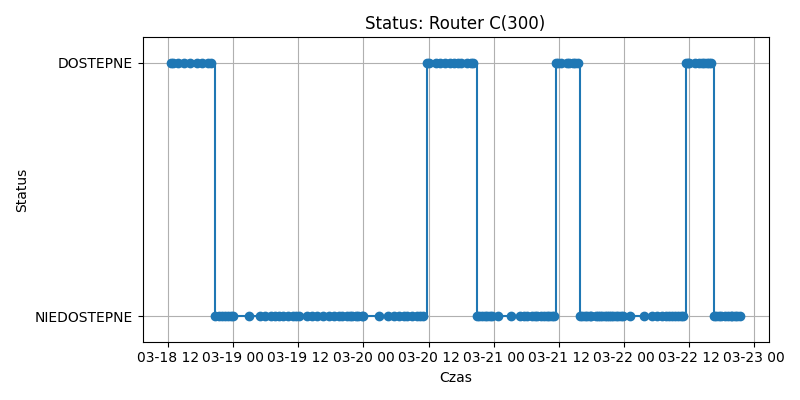
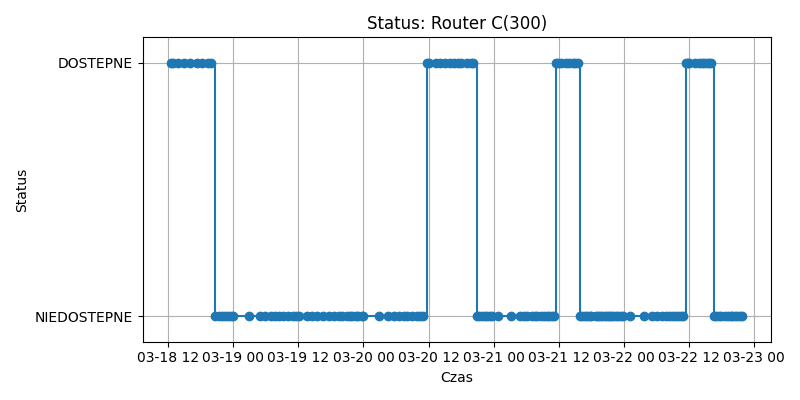
Automatyczna aktualizacja monitoringu

Changed region(s): [[0.4375, 0.03, 0.6875, 0.09], [0.5312, 0.93, 0.5938, 0.96], [0.9062, 0.78, 0.9375, 0.81]]

diff --git a/index.html b/index.html
@@ -33,5 +33,5 @@ img { border: 1px solid #ccc; border-radius: 8px; }
                 <div>Router C(300)</div>
                 <img src="chart_Router C(300).png" alt="Router C(300)" style="max-width:600px; margin-top:10px;">
             </div>
-            <p>Ostatnia zmiana: 2026-03-22 21:28:09</p>
+            <p>Ostatnia zmiana: 2026-03-22 21:51:36</p>
 </body></html>
